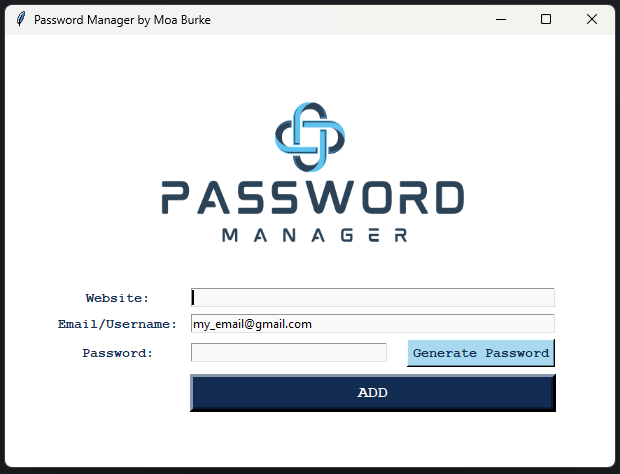
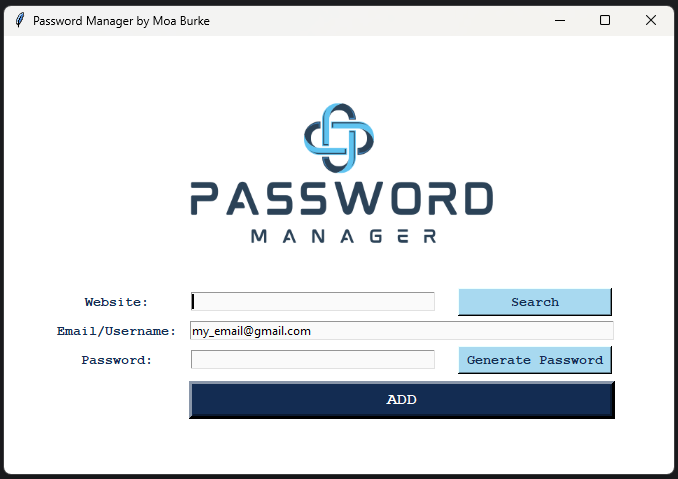
Initial Commit

diff --git a/main.py b/main.py
@@ -2,23 +2,31 @@
 Password Manager Application
 
 Author: Moa Burke
-Date: 16 Oct 2024
+Date: 17 Oct 2024
 Description:
     This program implements a simple Password Manager using Python and Tkinter for the GUI.
     Users can generate random passwords, save name of website, email/username, and password details to a file,
-    and retrieve them later. The application ensures that no fields are left empty before saving
-    and provides an option to copy the generated password to teh clipboard.
+    retrieve them later, and copy the password to the clipboard. It ensures that no input fields are left empty before
+    saving and allows the user to set their own default email in the input field. The application also includes
+    a search functionality to find saved details for a specific website.
+    Error handling has been implemented to manage file-related issues, and website names are saved in title case to
+    ensure consistency and data retrieval.
 
-Version: 1.0
+Version: 1.1
 
 Changelog:
-    - 1.0: Initial version with core functionality (password generation, saving, and validation).
+    - 1.1:  Updated data storage to JSON format (from .txt), added try-except error handling for file operations,
+            enforced title case for website names to ensure consistency and data retrieval, and introduced a search
+            feature for retrieving saved passwords.
+    - 1.0:  Initial version with core functionality (password generation, saving, and validation).
 """
 
 from tkinter import *
 from tkinter import messagebox
 import random
+import json
 import pyperclip
+
 
 # Default Email Constant
 DEFAULT_EMAIL = "my_email@gmail.com" # Default email to be displayed in the input field
@@ -56,6 +64,41 @@ MAX_NUMBERS = 4
 # Message Box Constants
 ERROR_TITLE = "Error" #Title for error message boxes
 ERROR_MESSAGE = "Please don't leave any empty fields." # Error message
+
+def find_data():
+    """
+    Function to find and retrieve saved data (email/username and password) for a specified website.
+    It searches in the 'data.json' file, coped the password to the clipboard if found,
+    and displays the information in a message box. If no data file is found or the website
+    it nos present in the data, it shows an error message.
+    """
+
+    # Get the website name entered by the user and convert it to title case for consistency
+    website = website_input.get().title()
+
+    try:
+        # Try and open the JSON file containing saved data
+        with open("data.json", mode="r") as data_file:
+            data = json.load(data_file) # Load the data from the file
+    except FileNotFoundError:
+        # If the file does not exist, show an error message
+        messagebox.showinfo(title="Error", message="No Data File Found.")
+    else:
+        # Check if the website is in the saved data
+        if website in data:
+            # Retrieve the associated email and password
+            email = data[website]["email"]
+            password = data[website]["password"]
+
+            # Copy the password to the system clipboard for easy pasting
+            pyperclip.copy(password)
+
+            # Display the email and password in a message box
+            messagebox.showinfo(title=website, message=f"Email/Username: {email} \nPassword: {password} \n\nPassword has been copied to the clipboard.")
+
+        else:
+            # If no details are found for the entered website, show an error message
+            messagebox.showinfo(title="Error", message=f"No details for {website} exists.")
 
 
 def generate_password():
@@ -97,33 +140,44 @@ def generate_password():
 
 def save_data():
     """
-    Function to save website, email, and password information to a file.
-    Checks if all input fields are fields before saving and shows a confirmation message box.
+    Function to save website, email, and password information to a JSON file.
+    It checks if any input fields are empty before saving and shows a confirmation message.
+    If the data file exists, it updates the existing data: if not, it creates a new file.
     """
     # Get the data from the input fields
-    website = website_input.get()
-    email = email_input.get()
-    password = password_input.get()
+    website = website_input.get().title() # Convert the website name to title case
+    email = email_input.get() # Get the email from the input field
+    password = password_input.get() # Get the password from the input field
+
+    # Create a new dictionary to store the current website's details
+    new_data = { website: {
+            "email": email,
+            "password": password
+        }
+    }
 
     # Check if any of the input fields are left empty
     if len(website) == 0 or len(email) == 0 or len(password) == 0:
-        messagebox.showinfo(title=ERROR_TITLE, message=ERROR_MESSAGE) # Show error message
+        # Show error message if any field is blank
+        messagebox.showinfo(title=ERROR_TITLE, message=ERROR_MESSAGE)
     else: # All input fields has been filled out
-        # Display a confirmation dialog to verify if the user wants to save the data
-        is_ok = messagebox.askokcancel(title=website, message=f"These are the detailed entered:\n\nEmail: {email} \nPassword: {password} \n\nIs it okay to save?")
+        try:
+            # Try to open the existing JSON file and load its content
+            with open("data.json", mode="r") as data_file:
+                data = json.load(data_file) # Load the old data from the file
+        except FileNotFoundError:
+            # If data_file does not exist, create a new one with the current data
+            with open("data.json", mode="w") as data_file:
+                json.dump(new_data, data_file, indent=4)
+        else:
+            # Update old data with new data's information
+            data.update(new_data)
 
-        # If user confirms saving the data
-        if is_ok:
-            # Pad input string with spaces for consistent formatting in the saved file
-            website = website.ljust(20, ' ') # Left-align website name to 20 characters
-            email = email.ljust(35, ' ') # Left-align email to 35 characters
-            password = password.ljust(15, ' ') # Left-align password name to 15 characters
-
-            # Open the file in append mode and write the data
-            with open(DATA_FILE_PATH, mode="a") as file:
-                file.write(f"{website} | {email} | {password}\n")
-
-            # Clear the input fields after saving the data
+            # Save the updated data back to the file
+            with open("data.json", mode="w") as data_file:
+                json.dump(data, data_file, indent=4)
+        finally:
+            # Clear the input fields after the data has been saved
             delete_input()
 
 
@@ -159,25 +213,29 @@ password_label.grid(column=0, row=3)
 
 
 # Input fields (Entry Widgets)
-website_input = Entry(width=60, bg=GRAY) # Create an input field for the website name
-website_input.grid(row=1, column=1, columnspan=2)
+website_input = Entry(width=40, bg=GRAY) # Create an input field for the website name
+website_input.grid(row=1, column=1)
 website_input.focus() # Set focus to the website input field
 
-email_input = Entry(width=60, bg=GRAY)  # Create an input field for the email
+email_input = Entry(width=70, bg=GRAY)  # Create an input field for the email
 email_input.grid(row=2, column=1, columnspan=2, padx=PADDING_X)
 email_input.insert(0, "my_email@gmail.com") # Set a default email in the input fields
 
-password_input = Entry(width=32, bg=GRAY)  # Create an input field for the password
+password_input = Entry(width=40, bg=GRAY)  # Create an input field for the password
 password_input.grid(row=3, column=1)
 
 
 # Buttons
+#Button to find saved data
+button_password = Button(text="Search", command=find_data, width="18", bg=LIGHT_BLUE, fg=DARK_BLUE, font=FONT)
+button_password.grid(row=1, column=2, pady=PADDING_Y)
+
 # Button to generate password
-button_password = Button(text="Generate Password", command=generate_password,bg=LIGHT_BLUE, fg=DARK_BLUE, font=FONT)
+button_password = Button(text="Generate Password", command=generate_password, width="18", bg=LIGHT_BLUE, fg=DARK_BLUE, font=FONT)
 button_password.grid(row=3, column=2, pady=PADDING_Y)
 
 # Button to save data
-button_add = Button(text="ADD", command=save_data, width=35 ,bg=DARK_BLUE, fg=WHITE, font=(FONT_NAME, 12, "bold"),borderwidth=5 )
+button_add = Button(text="ADD", command=save_data, width=41 ,bg=DARK_BLUE, fg=WHITE, font=(FONT_NAME, 12, "bold"), borderwidth=5 )
 button_add.grid(row=4, column=1, columnspan=2, pady=5)
 
 
